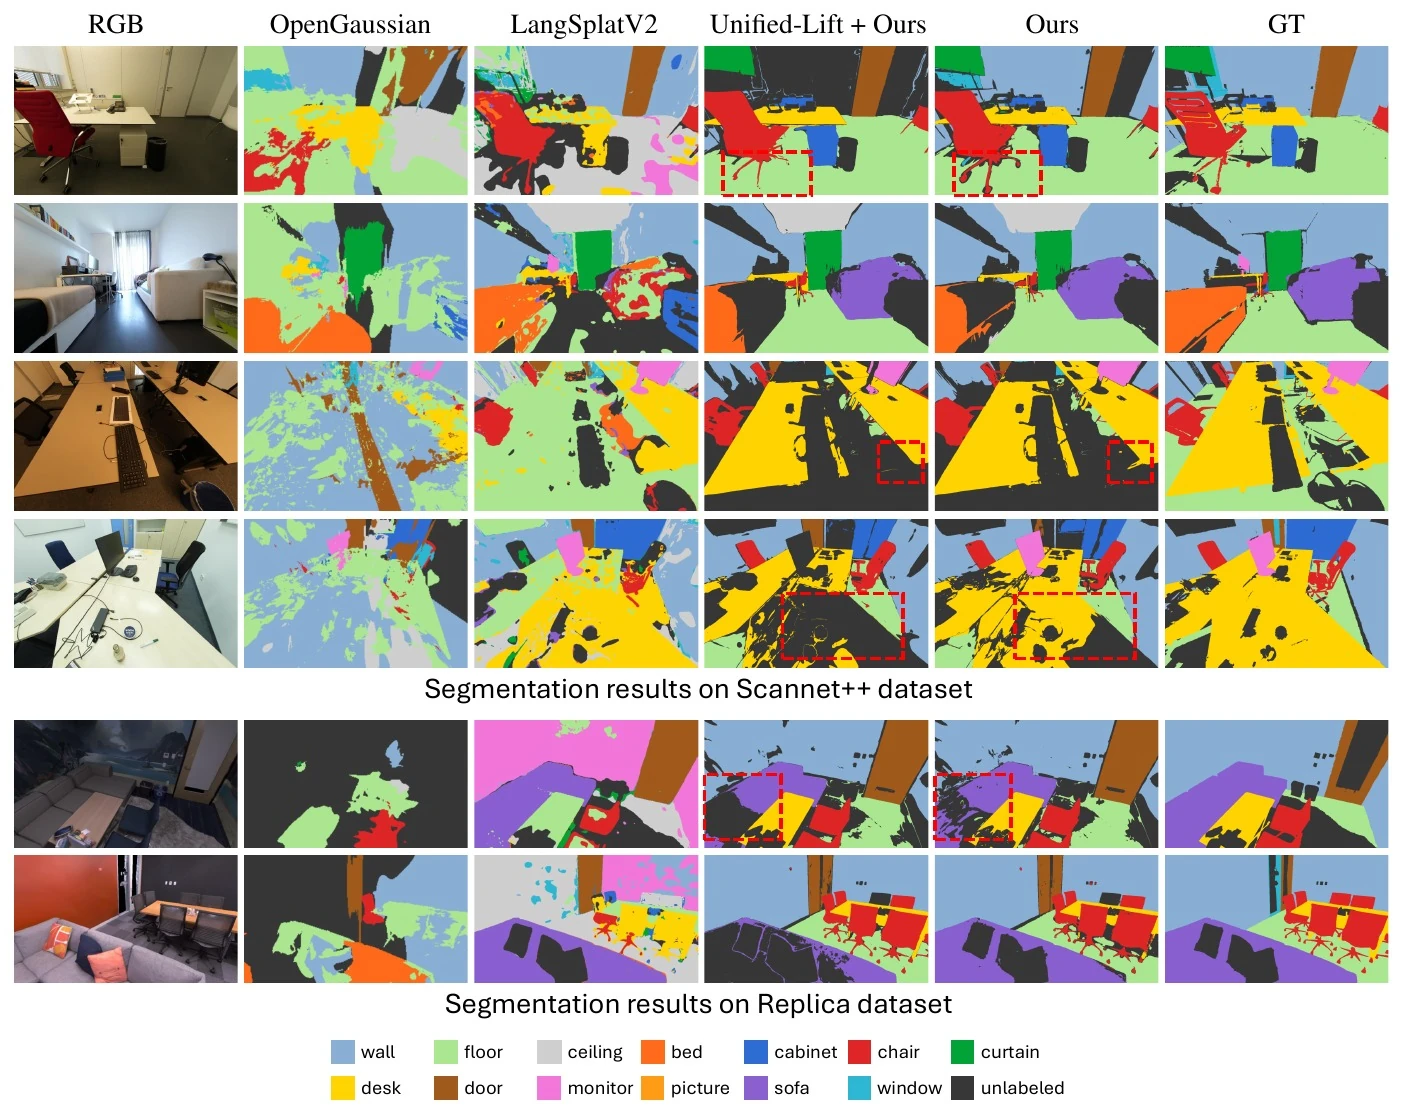
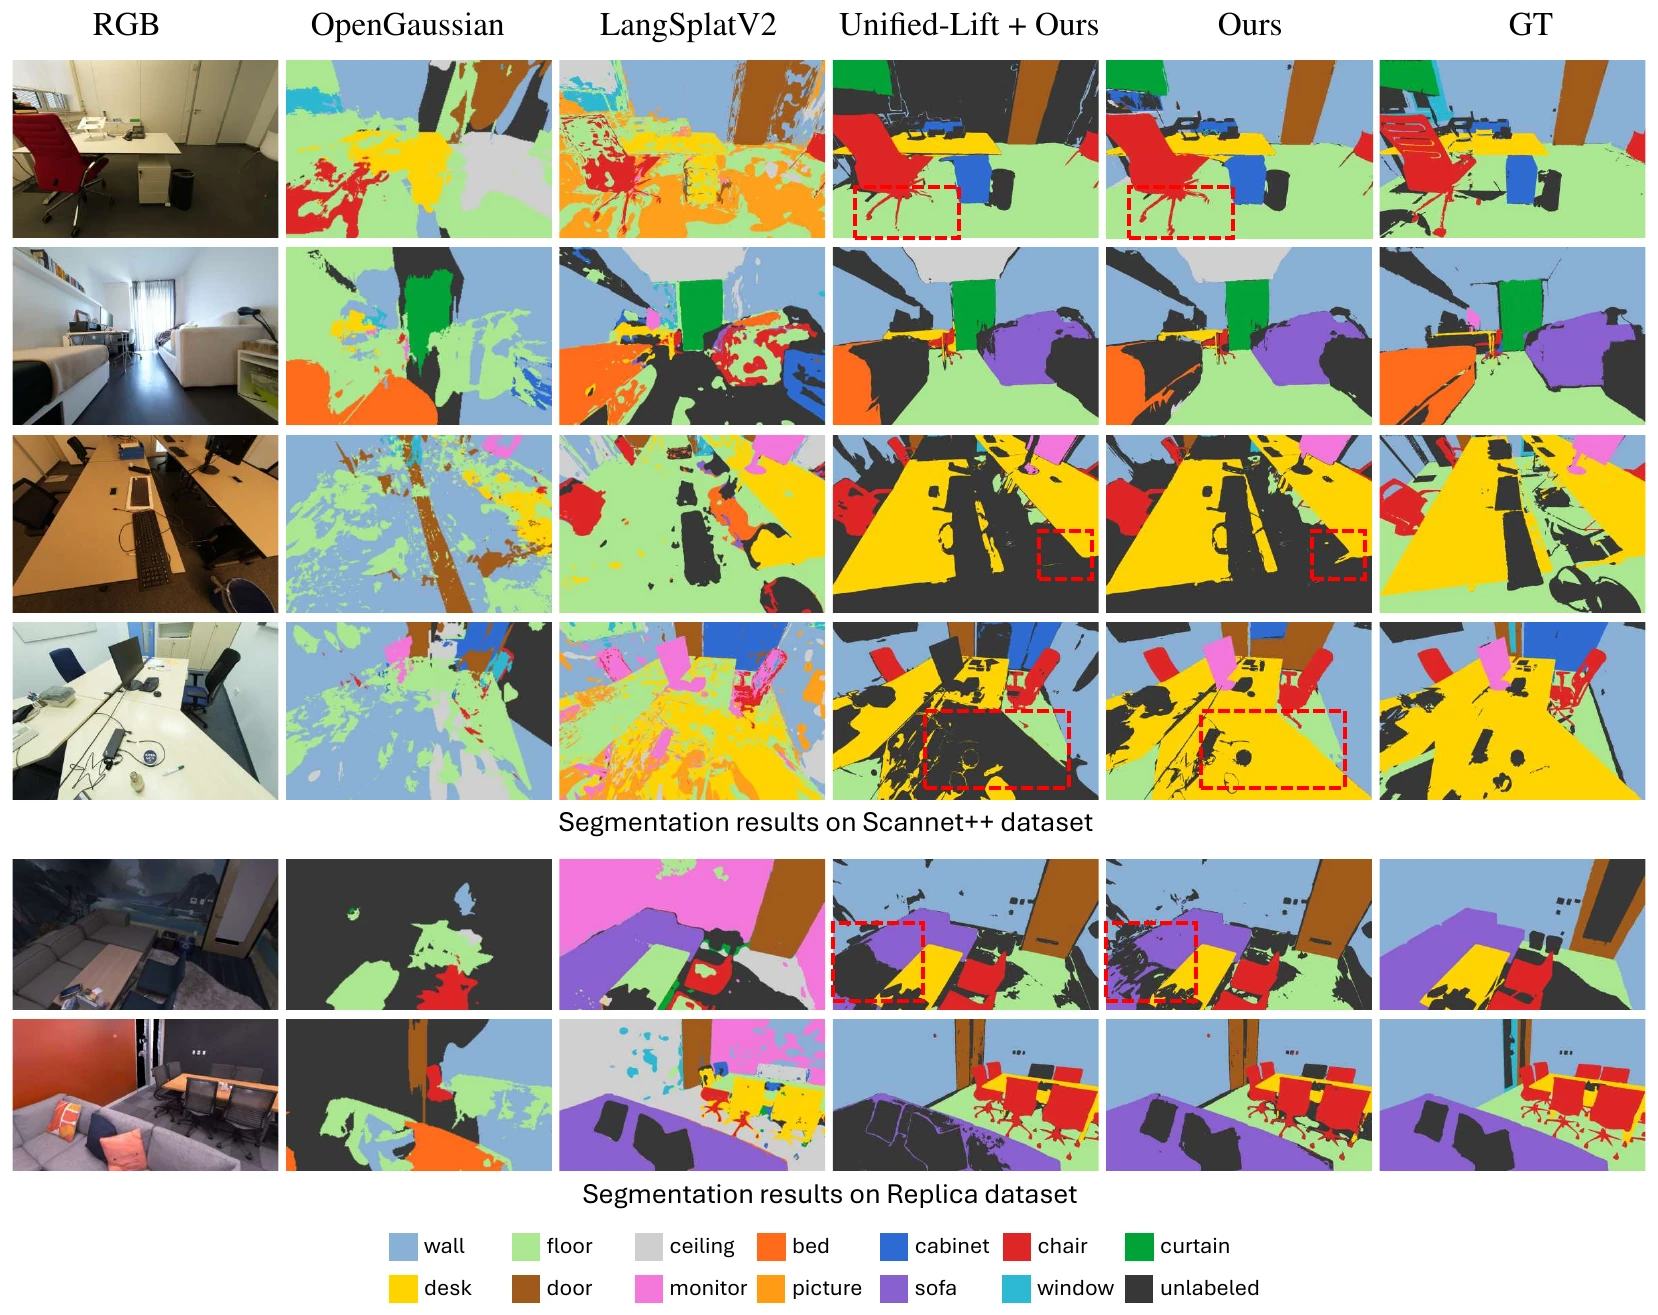
Update Fig. 3 / Fig. 4 teaser figures from the final paper

diff --git a/index.html b/index.html
@@ -68,9 +68,9 @@
         <button class="pill is-active" role="tab" data-target="qual-render">Render-level · ScanNet++ &amp; Replica</button>
         <button class="pill" role="tab" data-target="qual-point">Point-level · ScanNetV2</button>
       </div>
-      <img id="qual-render" class="qual-img" src="static/images/qual_render.webp"
+      <img id="qual-render" class="qual-img" src="static/images/qual_render.webp?v=final2"
            alt="Qualitative render-level 3DGS semantic segmentation on ScanNet++ and Replica">
-      <img id="qual-point" class="qual-img" src="static/images/qual_point.webp" hidden
+      <img id="qual-point" class="qual-img" src="static/images/qual_point.webp?v=final2" hidden
            alt="Qualitative 3D point-level semantic segmentation on ScanNetV2">
       <figcaption>
         <b>VLSplat</b> produces complete, category-aware objects where mask-lifting and language-field baselines
